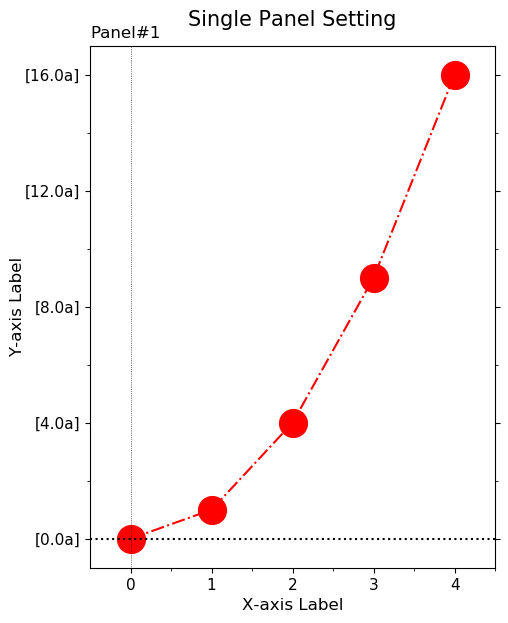
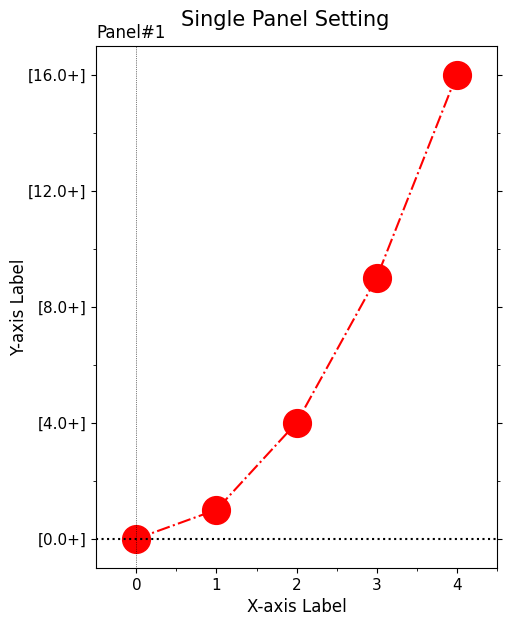
2021.0625

diff --git a/M.Matplotlib_Basic_Setup/M02_single_panel_decoration.py3.py b/M.Matplotlib_Basic_Setup/M02_single_panel_decoration.py3.py
@@ -8,9 +8,7 @@ by Daeho Jin
 
 ---
 Reference:
-https://matplotlib.org/api/axes_api.html#the-axes-class
-https://matplotlib.org/api/_as_gen/matplotlib.axes.Axes.plot.html
-https://matplotlib.org/examples/ticks_and_spines/tick-locators.html
+https://matplotlib.org/stable/api/axes_api.html
 '''
 
 import numpy as np
@@ -43,7 +41,7 @@ ax1 = fig.add_subplot(1,1,1)   # (# of rows, # of columns, indicater from 1)
 
 ##-- Plot on an axis --##
 props= dict(color='r',ls='-.',lw=1.5,marker='o',markersize=20)  # ls: line_style, lw: line_width
-ax1.plot(x,y,**props)
+ax1.plot(x,y,**props)  # https://matplotlib.org/stable/api/_as_gen/matplotlib.axes.Axes.plot.html
 
 ##-- Various Settings for axis --##
 subtit='Panel#1'
@@ -52,25 +50,26 @@ ax1.set_title(subtit,fontsize=12,x=0.,ha='left') #,y=0.9
 ax1.set_xlim(-0.5,4.5)
 ax1.xaxis.set_major_locator(MultipleLocator(1))   # For Major Ticks
 ax1.xaxis.set_minor_locator(AutoMinorLocator(2))   # For minor Ticks
+# https://matplotlib.org/stable/gallery/ticks_and_spines/tick-locators.html
 ax1.set_xlabel('X-axis Label',fontsize=12)
 
 ax1.set_ylim(-1,17)
 ax1.set_ylabel('Y-axis Label',fontsize=12,rotation=90,labelpad=0)
-ax1.set_yticks(range(0,17,4))
+ax1.set_yticks(range(0,17,4))  # Manually set tick locations replacing 'locator'
 ax1.yaxis.set_minor_locator(AutoMinorLocator(2))
-yt_form=FuncFormatter(lambda x, pos: "[{:0.1f}x]".format(x))
-ax1.yaxis.set_major_formatter(yt_form)
+ax1.yaxis.set_major_formatter("[{x:0.1f}+]")  # Working on ver 3.3+
+#yt_form=FuncFormatter(lambda x, pos: "[{:0.1f}+]".format(x))
+#ax1.yaxis.set_major_formatter(yt_form)
+# https://matplotlib.org/stable/gallery/ticks_and_spines/tick-formatters.html
 ax1.yaxis.set_ticks_position('both')
 
 ax1.tick_params(axis='both',labelsize=11)
+# https://matplotlib.org/stable/api/_as_gen/matplotlib.axes.Axes.tick_params.html
+
 ax1.axhline(y=0.,color='k',linestyle=':')
 ax1.axvline(x=0.,color='k',ls=':',lw=0.5)
 
-
 ##-- Seeing or Saving Pic --##
-
-#- If want to see on screen -#
-#plt.show()
 
 #- If want to save to file
 outdir = "../Pics/"
@@ -79,7 +78,8 @@ print(outfnm)
 #fig.savefig(outfnm,dpi=100)   # dpi: pixels per inch
 #fig.savefig(outfnm,dpi=100,facecolor='0.8')
 #fig.savefig(outfnm,dpi=100,facecolor='0.8',transparent=True)
-
 fig.savefig(outfnm,dpi=100,bbox_inches='tight')   # dpi: pixels per inch
-
 # Defalut: facecolor='w', edgecolor='w', transparent=False
+
+#- If want to see on screen -#
+plt.show()

diff --git a/M.Matplotlib_Basic_Setup/M03a_setup_multi_panel1.py3.py b/M.Matplotlib_Basic_Setup/M03a_setup_multi_panel1.py3.py
@@ -6,8 +6,7 @@ by Daeho Jin
 
 ---
 Reference:
-https://matplotlib.org/3.3.0/api/_as_gen/matplotlib.figure.Figure.html#matplotlib.figure.Figure.add_subplot
-https://matplotlib.org/api/_as_gen/matplotlib.axes.Axes.plot.html
+https://matplotlib.org/stable/api/figure_api.html#matplotlib.figure.Figure.add_subplot
 '''
 
 import numpy as np
@@ -29,7 +28,8 @@ abc='abcdefghijklmn'
 fig = plt.figure()
 fig.set_size_inches(8.5,6)    # Physical page size in inches, (lx,ly)
 
-fig.subplots_adjust(left=0.05,right=0.95,top=0.92,bottom=0.05,hspace=0.3,wspace=0.2)  ### Margins, etc.
+fig.subplots_adjust(left=0.05,right=0.95,top=0.92,bottom=0.05,
+                    hspace=0.3,wspace=0.2)  ### Margins, etc.
 
 ##-- Title for the page --##
 suptit="Multi-Panel Setting"
@@ -41,20 +41,18 @@ for i in range(nrow*ncol):
     ax1 = fig.add_subplot(nrow,ncol,i+1)   # (# of rows, # of columns, indicater from 1)
 
     ##-- Plot on an axis --##
-    ax1.plot(x,y,color='{:.1f}'.format(i/(nrow*ncol)))
+    ax1.plot(x,y) 
     ax1.set_title('({}) Panel#{:d}'.format(abc[i],i+1))
-
 
 ##-- Seeing or Saving Pic --##
 
-#- If want to see on screen -#
-plt.show()
-
 #- If want to save to file
 outdir = "../Pics/"
-outfnm = outdir+"M03_multi_panel1.png"
+outfnm = outdir+"M03a_multi_panel1.png"
 print(outfnm)
 #fig.savefig(outfnm,dpi=100)   # dpi: pixels per inch
-#fig.savefig(outfnm,dpi=100,bbox_inches='tight')   # dpi: pixels per inch
-
+fig.savefig(outfnm,dpi=100,bbox_inches='tight')   # dpi: pixels per inch
 # Defalut: facecolor='w', edgecolor='w', transparent=False
+
+#- If want to see on screen -#
+plt.show()

diff --git a/M.Matplotlib_Basic_Setup/M01_setup_single_panel.py3.py b/M.Matplotlib_Basic_Setup/M01_setup_single_panel.py3.py
@@ -1,5 +1,6 @@
 '''
 Matplotlib Basic(1)
+: Make sure the concept of "figure," "axes," and "axis."
 : Define and Set up a figure
 : Define an axes in a figure
 : Draw a simple line plot
@@ -9,7 +10,7 @@ by Daeho Jin
 
 ---
 Reference:
-https://matplotlib.org/3.3.0/tutorials/introductory/usage.html#parts-of-a-figure
+https://matplotlib.org/stable/tutorials/introductory/usage.html
 '''
 
 import numpy as np
@@ -27,7 +28,7 @@ y = x**2
 ###--- Plotting Start ---###
 
 ##-- Page Setup --##
-fig = plt.figure()
+fig = plt.figure()  # https://matplotlib.org/stable/api/figure_api.html
 fig.set_size_inches(4.5,6)    # Physical page size in inches, (lx,ly)
 
 ##-- Title for the page --##
@@ -36,17 +37,14 @@ fig.suptitle(suptit,fontsize=15)  #,ha='left',x=0.,y=0.98,stretch='semi-condense
 
 ##-- Set up axis1 --##
 ax1 = fig.add_subplot(1,1,1)   # (# of rows, # of columns, indicater from 1)
+### These are also working:
+#ax1 = fig.add_subplot()
+#ax1 = fig.add_subplot(111)
 
 ##-- Plot on an axis --##
 ax1.plot(x,y)
 
-
-
 ##-- Seeing or Saving Pic --##
-
-#- If want to see on screen -#
-#plt.show()
-
 #- If want to save to file
 outdir = "../Pics/"
 outfnm = outdir+"M01_single_panel1.png"
@@ -54,7 +52,8 @@ print(outfnm)
 fig.savefig(outfnm,dpi=100)   # dpi: pixels per inch
 #fig.savefig(outfnm,dpi=100,facecolor='0.8')
 #fig.savefig(outfnm,dpi=100,facecolor='0.8',transparent=True)
-
 #fig.savefig(outfnm,dpi=100,bbox_inches='tight')   # dpi: pixels per inch
-
 # Defalut: facecolor='w', edgecolor='w', transparent=False
+
+#- If want to see on screen -#
+plt.show()

diff --git a/M.Matplotlib_Basic_Setup/M03b_setup_multi_panel1.py3.py b/M.Matplotlib_Basic_Setup/M03b_setup_multi_panel1.py3.py
@@ -35,15 +35,17 @@ fig.subplots_adjust(left=0.05,right=0.95,top=0.92,bottom=0.05,hspace=0.3,wspace=
 suptit="Multi-Panel Setting"
 fig.suptitle(suptit,fontsize=15,va='bottom',y=0.975)  #,ha='left',x=0.,stretch='semi-condensed')
 
-nrow, ncol= 3,4
-#for i in range(nrow*ncol):
-    ##-- Set up an axis --##
-i=1
-ax1 = fig.add_subplot(nrow,ncol,i+1)   # (# of rows, # of columns, indicater from 1)
+axes=[]
+axes.append(fig.add_subplot(2,2,1))
+axes.append(fig.add_subplot(2,4,3))
+axes.append(fig.add_subplot(4,4,4))
+axes.append(fig.add_subplot(4,4,8))
+axes.append(fig.add_subplot(4,1,3))
 
-    ##-- Plot on an axis --##
-ax1.plot(x,y,color='{:.1f}'.format(i/(nrow*ncol)))
-ax1.set_title('({}) Panel#{:d}'.format(abc[i],i+1))
+##-- Plot on an axis --##
+for i,ax1 in enumerate(axes):
+    ax1.plot(x,y,color='{:.1f}'.format(i/5))  # 0 to 1 in string means gray scale, black to white
+    ax1.set_title('({}) Panel#{:d}'.format(abc[i],i+1))
 
 
 ##-- Seeing or Saving Pic --##
